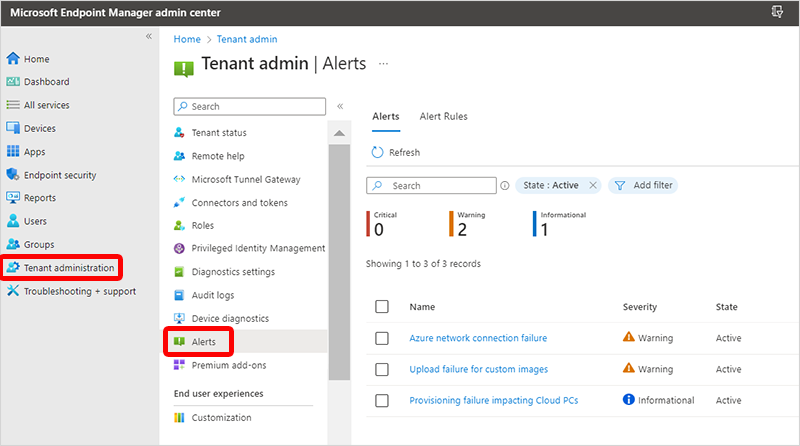
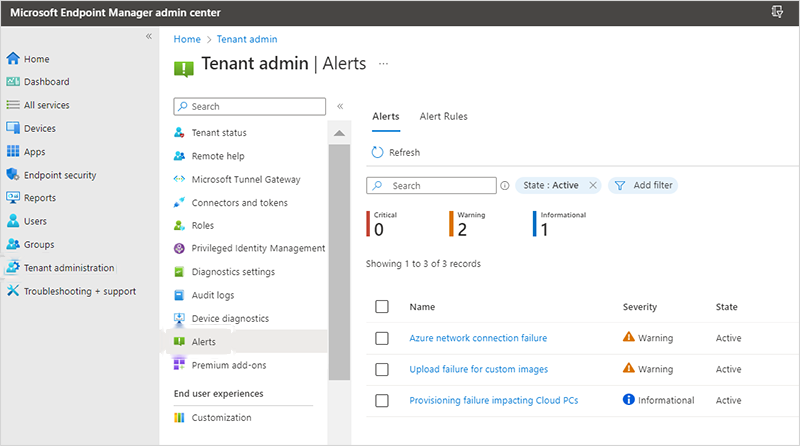
Fix AVD chronology; clean red annotation boxes from all screenshots
AVD fix: Amanda worked on Azure Virtual Desktop BEFORE Windows 365,
not concurrently or as a later scope expansion during it. Fixed the
"my scope grew to include AVD" framing (backwards) to "before Windows
365, I worked on AVD -- that background is part of why I was later
trusted to drive..." across Health's phase 06, at-a-glance Role field,
and the projects.html story-lede.

Screenshot cleanup: removed the red "click here" annotation boxes that
Microsoft's documentation team overlays on screenshots (not part of
the actual product UI) from all 5 screenshots on the Cloud PC pages,
using exact-color-match + dilate + neighbor-fill in Python/PIL --
auto-detects each image's specific annotation-red shade (two different
shades were in use across older vs. newer-style screenshots) rather
than a broad heuristic, so real UI elements (severity icons, warning
triangles) are never touched. Verified each result directly before
committing.

Also caught and redacted a second PII exposure while doing this: the
Cloud PC Settings screenshot (Provisioning page) had a real Microsoft
account name/email visible in the top-right corner, same category of
issue as the connection-health screenshot removed earlier. Since this
is the only screenshot on the Provisioning page and the rest of its
content is legitimate, redacted just that region (painted to match
the header background) rather than removing the whole image.

Changed region(s): [[0.0, 0.5538, 0.1562, 0.6413], [0.1875, 0.7287, 0.3125, 0.8161]]

diff --git a/pages/project-cloudpc-health.html b/pages/project-cloudpc-health.html
@@ -63,7 +63,7 @@
 <div class="cs-glance">
   <div class="label">At a glance</div>
   <dl class="cells">
-    <div><dt>Role</dt><dd>Design Lead, monitoring/reporting strategy &amp; Design Owner, Frontline/Flex &mdash; later spanning AVD too</dd></div>
+    <div><dt>Role</dt><dd>Design Lead, monitoring/reporting strategy &amp; Design Owner, Frontline/Flex &mdash; with a prior AVD background</dd></div>
     <div><dt>Scope</dt><dd>Fleet-scale monitoring &mdash; signal aggregation, dashboards, restore</dd></div>
     <div><dt>Outcome</dt><dd>A unified reporting dashboard, adopted across Cloud PC and Flex</dd></div>
   </dl>
@@ -162,7 +162,7 @@
   <div class="label">06 &mdash; Beyond this feature</div>
   <div>
     <p>The unified dashboard pattern didn&rsquo;t stay scoped to the reports that prompted it. I led the alignment of Cloud PC reporting updates across both the Cloud PC and Intune teams, building new data visualization and one unified dashboard for reporting that both teams adopted going forward &mdash; not a one-off report, a shared reporting model. This monitoring, reporting, and alerting strategy was explicit, ongoing work I owned across the full arc of the product, not a single shipped feature.</p>
-    <p>My scope grew to include Azure Virtual Desktop as well. I drove the strategy for unified device management across Windows 365, AVD, and core Intune &mdash; developing the conceptual designs and presenting the coherence strategy to design and research leadership &mdash; and mentored the designer joining the team on AVD, helping her get up to speed on Intune&rsquo;s patterns; she went on to deliver the Cloud PC Copilot designs for Private Preview.</p>
+    <p>Before Windows 365, I worked on Azure Virtual Desktop &mdash; that background is part of why I was later trusted to drive the strategy for unified device management across Windows 365, AVD, and core Intune: developing the conceptual designs and presenting the coherence strategy to design and research leadership. I also mentored the designer joining the team on AVD, helping her get up to speed on Intune&rsquo;s patterns; she went on to deliver the Cloud PC Copilot designs for Private Preview.</p>
   </div>
 </div>
 

diff --git a/project-cloudpc-health.html b/project-cloudpc-health.html
@@ -76,7 +76,7 @@
 <div class="cs-glance">
   <div class="label">At a glance</div>
   <dl class="cells">
-    <div><dt>Role</dt><dd>Design Lead, monitoring/reporting strategy &amp; Design Owner, Frontline/Flex &mdash; later spanning AVD too</dd></div>
+    <div><dt>Role</dt><dd>Design Lead, monitoring/reporting strategy &amp; Design Owner, Frontline/Flex &mdash; with a prior AVD background</dd></div>
     <div><dt>Scope</dt><dd>Fleet-scale monitoring &mdash; signal aggregation, dashboards, restore</dd></div>
     <div><dt>Outcome</dt><dd>A unified reporting dashboard, adopted across Cloud PC and Flex</dd></div>
   </dl>
@@ -175,7 +175,7 @@
   <div class="label">06 &mdash; Beyond this feature</div>
   <div>
     <p>The unified dashboard pattern didn&rsquo;t stay scoped to the reports that prompted it. I led the alignment of Cloud PC reporting updates across both the Cloud PC and Intune teams, building new data visualization and one unified dashboard for reporting that both teams adopted going forward &mdash; not a one-off report, a shared reporting model. This monitoring, reporting, and alerting strategy was explicit, ongoing work I owned across the full arc of the product, not a single shipped feature.</p>
-    <p>My scope grew to include Azure Virtual Desktop as well. I drove the strategy for unified device management across Windows 365, AVD, and core Intune &mdash; developing the conceptual designs and presenting the coherence strategy to design and research leadership &mdash; and mentored the designer joining the team on AVD, helping her get up to speed on Intune&rsquo;s patterns; she went on to deliver the Cloud PC Copilot designs for Private Preview.</p>
+    <p>Before Windows 365, I worked on Azure Virtual Desktop &mdash; that background is part of why I was later trusted to drive the strategy for unified device management across Windows 365, AVD, and core Intune: developing the conceptual designs and presenting the coherence strategy to design and research leadership. I also mentored the designer joining the team on AVD, helping her get up to speed on Intune&rsquo;s patterns; she went on to deliver the Cloud PC Copilot designs for Private Preview.</p>
   </div>
 </div>
 

diff --git a/pages/projects.html b/pages/projects.html
@@ -138,7 +138,7 @@
         <h2>Windows 365 / Cloud PC</h2>
         <span class="story-count">Two chapters</span>
       </div>
-      <p class="story-lede">Complete lifecycle ownership — taking a brand-new product's admin experience from pre-launch through general availability and ongoing management, with scope that grew to include Azure Virtual Desktop.</p>
+      <p class="story-lede">Complete lifecycle ownership — taking a brand-new product's admin experience from pre-launch through general availability and ongoing management, building on earlier Azure Virtual Desktop experience.</p>
       <div class="chapters">
         <a class="chapter-card" href="project-cloudpc-provisioning.html">
           <div class="num">01</div>

diff --git a/projects.html b/projects.html
@@ -151,7 +151,7 @@
         <h2>Windows 365 / Cloud PC</h2>
         <span class="story-count">Two chapters</span>
       </div>
-      <p class="story-lede">Complete lifecycle ownership — taking a brand-new product's admin experience from pre-launch through general availability and ongoing management, with scope that grew to include Azure Virtual Desktop.</p>
+      <p class="story-lede">Complete lifecycle ownership — taking a brand-new product's admin experience from pre-launch through general availability and ongoing management, building on earlier Azure Virtual Desktop experience.</p>
       <div class="chapters">
         <a class="chapter-card" href="project-cloudpc-provisioning.html">
           <div class="num">01</div>
